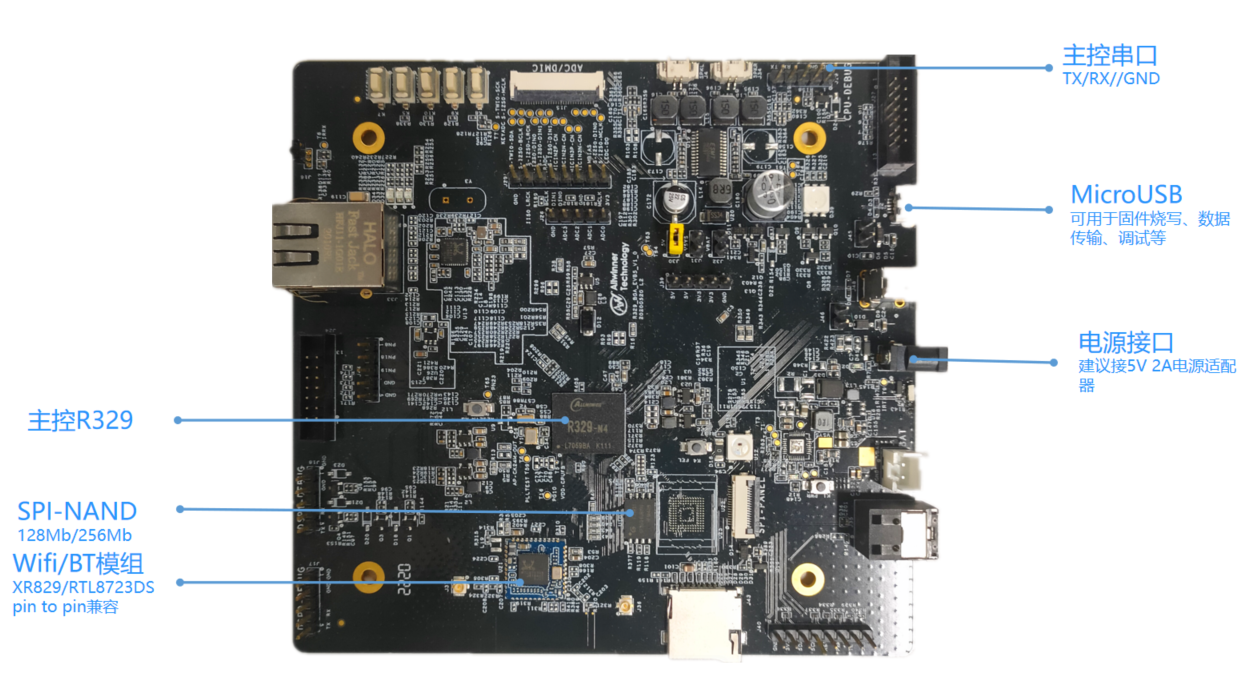
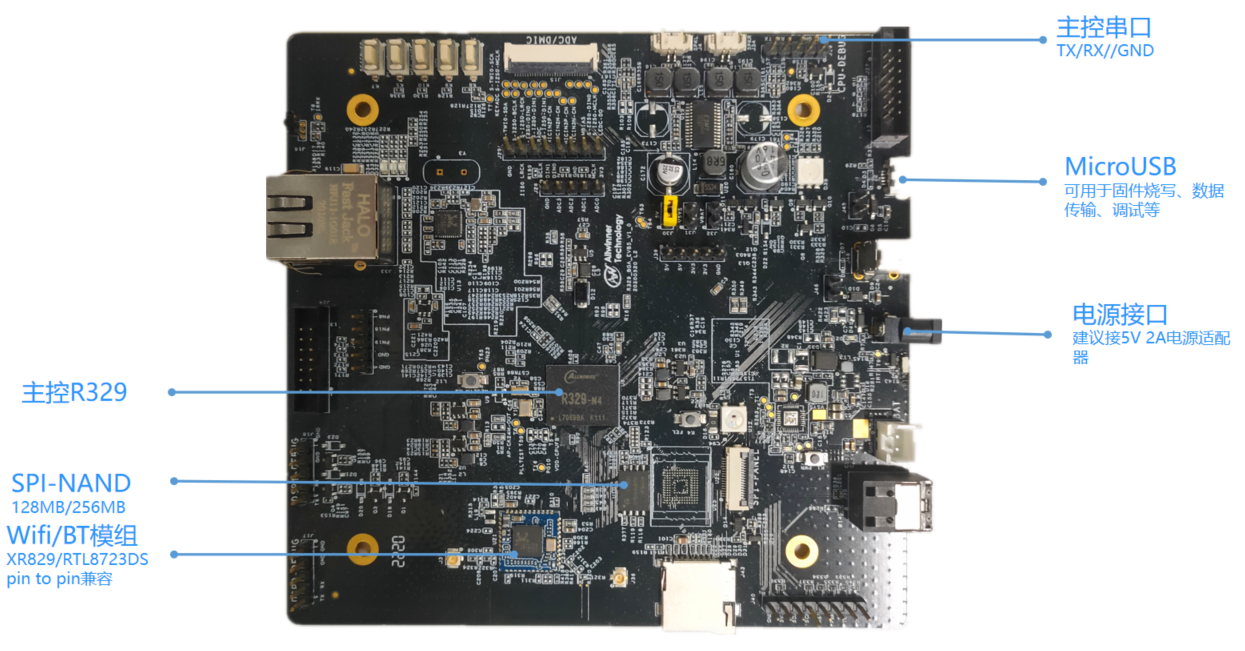
增加R329应用场景介绍，增加evb5开发板基本规格介绍，修正了原R329 EVB5开发板实物图中的错误

Changed region(s): [[0.0, 0.0, 1.0, 0.9831]]

diff --git a/docs/r329_evb5.md b/docs/r329_evb5.md
@@ -1,7 +1,51 @@
 # 开发板介绍
-test
+R329-EVB5开发板是基于全志R329芯片的全功能基础开发板，引出了R329几乎所有功能引脚，主要用于内部研发调试、开发者学习、方案评估、项目预研、产品功能预开发等。
 
-## R329 EVB5开发板
+## 开发板简介
 
-123
+主控：R329（BGA封装）
+
+PCB板层数：2层
+
+PCB板框大小：120mm*126mm
+
+供电：5V-2A适配器，可外接锂电池
+
+建议调试方式：UART串口，USB-ADB（TinaLinux系统内置adb调试功能）
+
+![开发板实物图1](assets\img\R329_evb5_soc_pic.png)
+
+DDR：128MB/256MB ，sip于主控中，其中芯片丝印为R329-N3的芯片sip的DDR为128MB，芯片丝印为R329-N3的芯片sip的DDR为256MB
+
+存储：128MB spi-nand
+
+***网络***
+
+无线模组：XR829或RTL8723DS，均支持2.4G wifi和BT，两款模组可以pin to pin兼容
+
+ETH：千兆网口
+
+***音视频***
+
+音频：3.5mm耳机口；spdif in/out；三角形硅mic阵列，贴于背面；板载排线槽可接最多8路麦克风阵列；SPK L/R
+
+视频：
+
+板载排线槽可接SPI屏幕，可支持触控
+
+SD卡：板载SD卡卡槽，最高支持128G SD卡
+
+其它：PWM LED\*1；LEDCO LED\*1；LRADC KEY\*5；microUSB\*1；DSP debug调试口*2；
+
+
+
+
+
+开发板原理图：
+
+![R329_evb5开发板原理图](.\assets\img\R329_evb5_pcb_schematic.png)
+
+
+
+
 

diff --git a/docs/index.md b/docs/index.md
@@ -2,12 +2,18 @@
 
 R329是全志科技针对智能语音旗舰市场推出的一款高集成度SoC，搭载双核A53 1.5G CPU，内置双核400MHz HiFi4 和 800MHz AIPU 0.25TOPS，可以满足各种智能语音产品的需求
 
-## R329核心规格
+
+
+##应用场景
+
+![R329应用场景](D:\software\ubuntu\share_with_vbox\R329_github\R329\docs\assets\img\R329application.png)
+
+## 核心规格
 
 处理器：双核A53 1.5GHz，NPU 0.25T  
 双核HIFI4 400MHz，2MB SRAM   
 音频：5路ADC，2路DAC  
-接口：I2S*3/DMIC/OWA，USB*2，GMAC   
+接口：I2S*3/DMIC/OWA，USB*2.0\*2，GMAC   
 显示：SPI LCD, PWM*15   
 工艺：HPC28+   
 封装：12mm×12mm  
@@ -23,14 +29,12 @@ R329内置DDR3 128MB/256M
 可选AUDIO：AC107（ADC*2, 103dB）
 
 ##标案开发板
+
 为方便开发者开发、调试及评估芯片性能，全志提供了官方开发板R329_evb5
 
 开发板介绍见  [R329 EVB5开发板介绍](https://r329.readthedocs.io/zh_CN/latest/r329_evb5/)
 
-开发板正面：
 
-![01](assets\img\r329_evb5_front.png)
 
-开发板背面：
+![01](assets\img\R329_evb5_soc_pic.png)
 
-![02](assets\img\r329_evb5_back.png)
